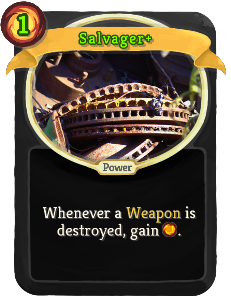
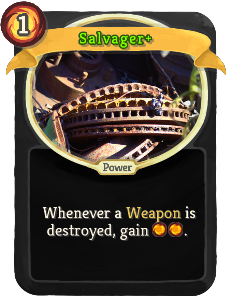
v.1.6.0 - Weapon Powers buffed.

Changed region(s): [[0.1818, 0.7248, 0.8182, 0.8154], [0.0606, 0.0302, 0.1515, 0.1208]]

diff --git a/exported/index.html b/exported/index.html
@@ -293,8 +293,8 @@
         <td>Attack</td>
         <td>1</td>
         <td>Deal 9(13) damage.
-            If you have equipped a Weapon this turn, reduce cost of
-            this card to 0.
+            If you have equipped a Weapon this turn, reduce cost of this
+            card to 0.
         </td>
     </tr>
 
@@ -907,8 +907,8 @@
         <td><a href="card-images/SalvagerPlus.png"><img src="small-card-images/SalvagerPlus.png" height="298"></a></td>
         <td>Rare</td>
         <td>Power</td>
-        <td>2(1)</td>
-        <td>Whenever a Weapon is destroyed, gain [R].</td>
+        <td>1</td>
+        <td>Whenever a Weapon is destroyed, gain [R] ([R]).</td>
     </tr>
 
     <tr>
@@ -944,8 +944,8 @@
         </td>
         <td>Rare</td>
         <td>Power</td>
-        <td>2(1)</td>
-        <td>Whenever you Equip a Weapon, draw a card.</td>
+        <td>1</td>
+        <td>Whenever you Equip a Weapon, draw 1(2) card(s).</td>
     </tr>
 
 </table>

diff --git a/exported/cards.html b/exported/cards.html
@@ -292,8 +292,8 @@
     <td>Attack</td>
     <td>1</td>
     <td>Deal 9(13) damage.
-        If you have equipped a Weapon this turn, reduce cost of
-        this card to 0.
+        If you have equipped a Weapon this turn, reduce cost of this
+        card to 0.
     </td>
   </tr>
 
@@ -906,8 +906,8 @@
         <td><a href="card-images/SalvagerPlus.png"><img src="small-card-images/SalvagerPlus.png" height="298"></a></td>
     <td>Rare</td>
     <td>Power</td>
-    <td>2(1)</td>
-    <td>Whenever a Weapon is destroyed, gain [R].</td>
+        <td>1</td>
+        <td>Whenever a Weapon is destroyed, gain [R] ([R]).</td>
   </tr>
 
     <tr>
@@ -943,8 +943,8 @@
         </td>
     <td>Rare</td>
     <td>Power</td>
-    <td>2(1)</td>
-    <td>Whenever you Equip a Weapon, draw a card.</td>
+        <td>1</td>
+        <td>Whenever you Equip a Weapon, draw 1(2) card(s).</td>
   </tr>
 
 </table>

diff --git a/exported/index.md b/exported/index.md
@@ -74,10 +74,10 @@
 | Murder | ![](small-card-images/Murder.png) | ![](small-card-images/MurderPlus.png) | Rare | Attack | 4 | Deal 250(500) damage     to a Normal enemy. (Cannot be used on Elite or Boss). Ethereal. |
 | Parrot | ![](small-card-images/Parrot.png) | ![](small-card-images/ParrotPlus.png) | Rare | Power | 3 | The last card played each turn is played an additional time. This power does not stack. Ethereal. (not Ethereal.) |
 | Pirate Strength | ![](small-card-images/PirateStrength.png) | ![](small-card-images/PirateStrengthPlus.png) | Rare | Power | 3 | Gain 6(9) Strength. |
-| Salvager | ![](small-card-images/Salvager.png) | ![](small-card-images/SalvagerPlus.png) | Rare | Power | 2(1) | Whenever a Weapon is destroyed, gain [R]. |
+| Salvager | ![](small-card-images/Salvager.png) | ![](small-card-images/SalvagerPlus.png) | Rare | Power | 1 | Whenever a Weapon is destroyed, gain [R] ([R]). |
 | The Drunken Sailor | ![](small-card-images/TheDrunkenSailor.png) | ![](small-card-images/TheDrunkenSailorPlus.png) | Rare | Power | 1(0) | Your potions are used an additional time. |
 | Undead Form | ![](small-card-images/UndeadForm.png) | ![](small-card-images/UndeadFormPlus.png) | Rare | Power | 3 | Gain 2(3) Intangible. At the start of the turn on which you are no longer Intangible, you take 30 damage. |
-| Weapon Mastery | ![](small-card-images/WeaponMastery.png) | ![](small-card-images/WeaponMasteryPlus.png) | Rare | Power | 2(1) | Whenever you Equip a Weapon, draw a card. |
+| Weapon Mastery | ![](small-card-images/WeaponMastery.png) | ![](small-card-images/WeaponMasteryPlus.png) | Rare | Power | 1 | Whenever you Equip a Weapon, draw 1(2) card(s). |
 
 
 

diff --git a/exported/cards.md b/exported/cards.md
@@ -71,7 +71,7 @@
 | Murder | ![](small-card-images/Murder.png) | ![](small-card-images/MurderPlus.png) | Rare | Attack | 4 | Deal 250(500) damage     to a Normal enemy. (Cannot be used on Elite or Boss). Ethereal. |
 | Parrot | ![](small-card-images/Parrot.png) | ![](small-card-images/ParrotPlus.png) | Rare | Power | 3 | The last card played each turn is played an additional time. This power does not stack. Ethereal. (not Ethereal.) |
 | Pirate Strength | ![](small-card-images/PirateStrength.png) | ![](small-card-images/PirateStrengthPlus.png) | Rare | Power | 3 | Gain 6(9) Strength. |
-| Salvager | ![](small-card-images/Salvager.png) | ![](small-card-images/SalvagerPlus.png) | Rare | Power | 2(1) | Whenever a Weapon is destroyed, gain [R]. |
+| Salvager | ![](small-card-images/Salvager.png) | ![](small-card-images/SalvagerPlus.png) | Rare | Power | 1 | Whenever a Weapon is destroyed, gain [R] ([R]). |
 | The Drunken Sailor | ![](small-card-images/TheDrunkenSailor.png) | ![](small-card-images/TheDrunkenSailorPlus.png) | Rare | Power | 1(0) | Your potions are used an additional time. |
 | Undead Form | ![](small-card-images/UndeadForm.png) | ![](small-card-images/UndeadFormPlus.png) | Rare | Power | 3 | Gain 2(3) Intangible. At the start of the turn on which you are no longer Intangible, you take 30 damage. |
-| Weapon Mastery | ![](small-card-images/WeaponMastery.png) | ![](small-card-images/WeaponMasteryPlus.png) | Rare | Power | 2(1) | Whenever you Equip a Weapon, draw a card. |
+| Weapon Mastery | ![](small-card-images/WeaponMastery.png) | ![](small-card-images/WeaponMasteryPlus.png) | Rare | Power | 1 | Whenever you Equip a Weapon, draw 1(2) card(s). |
